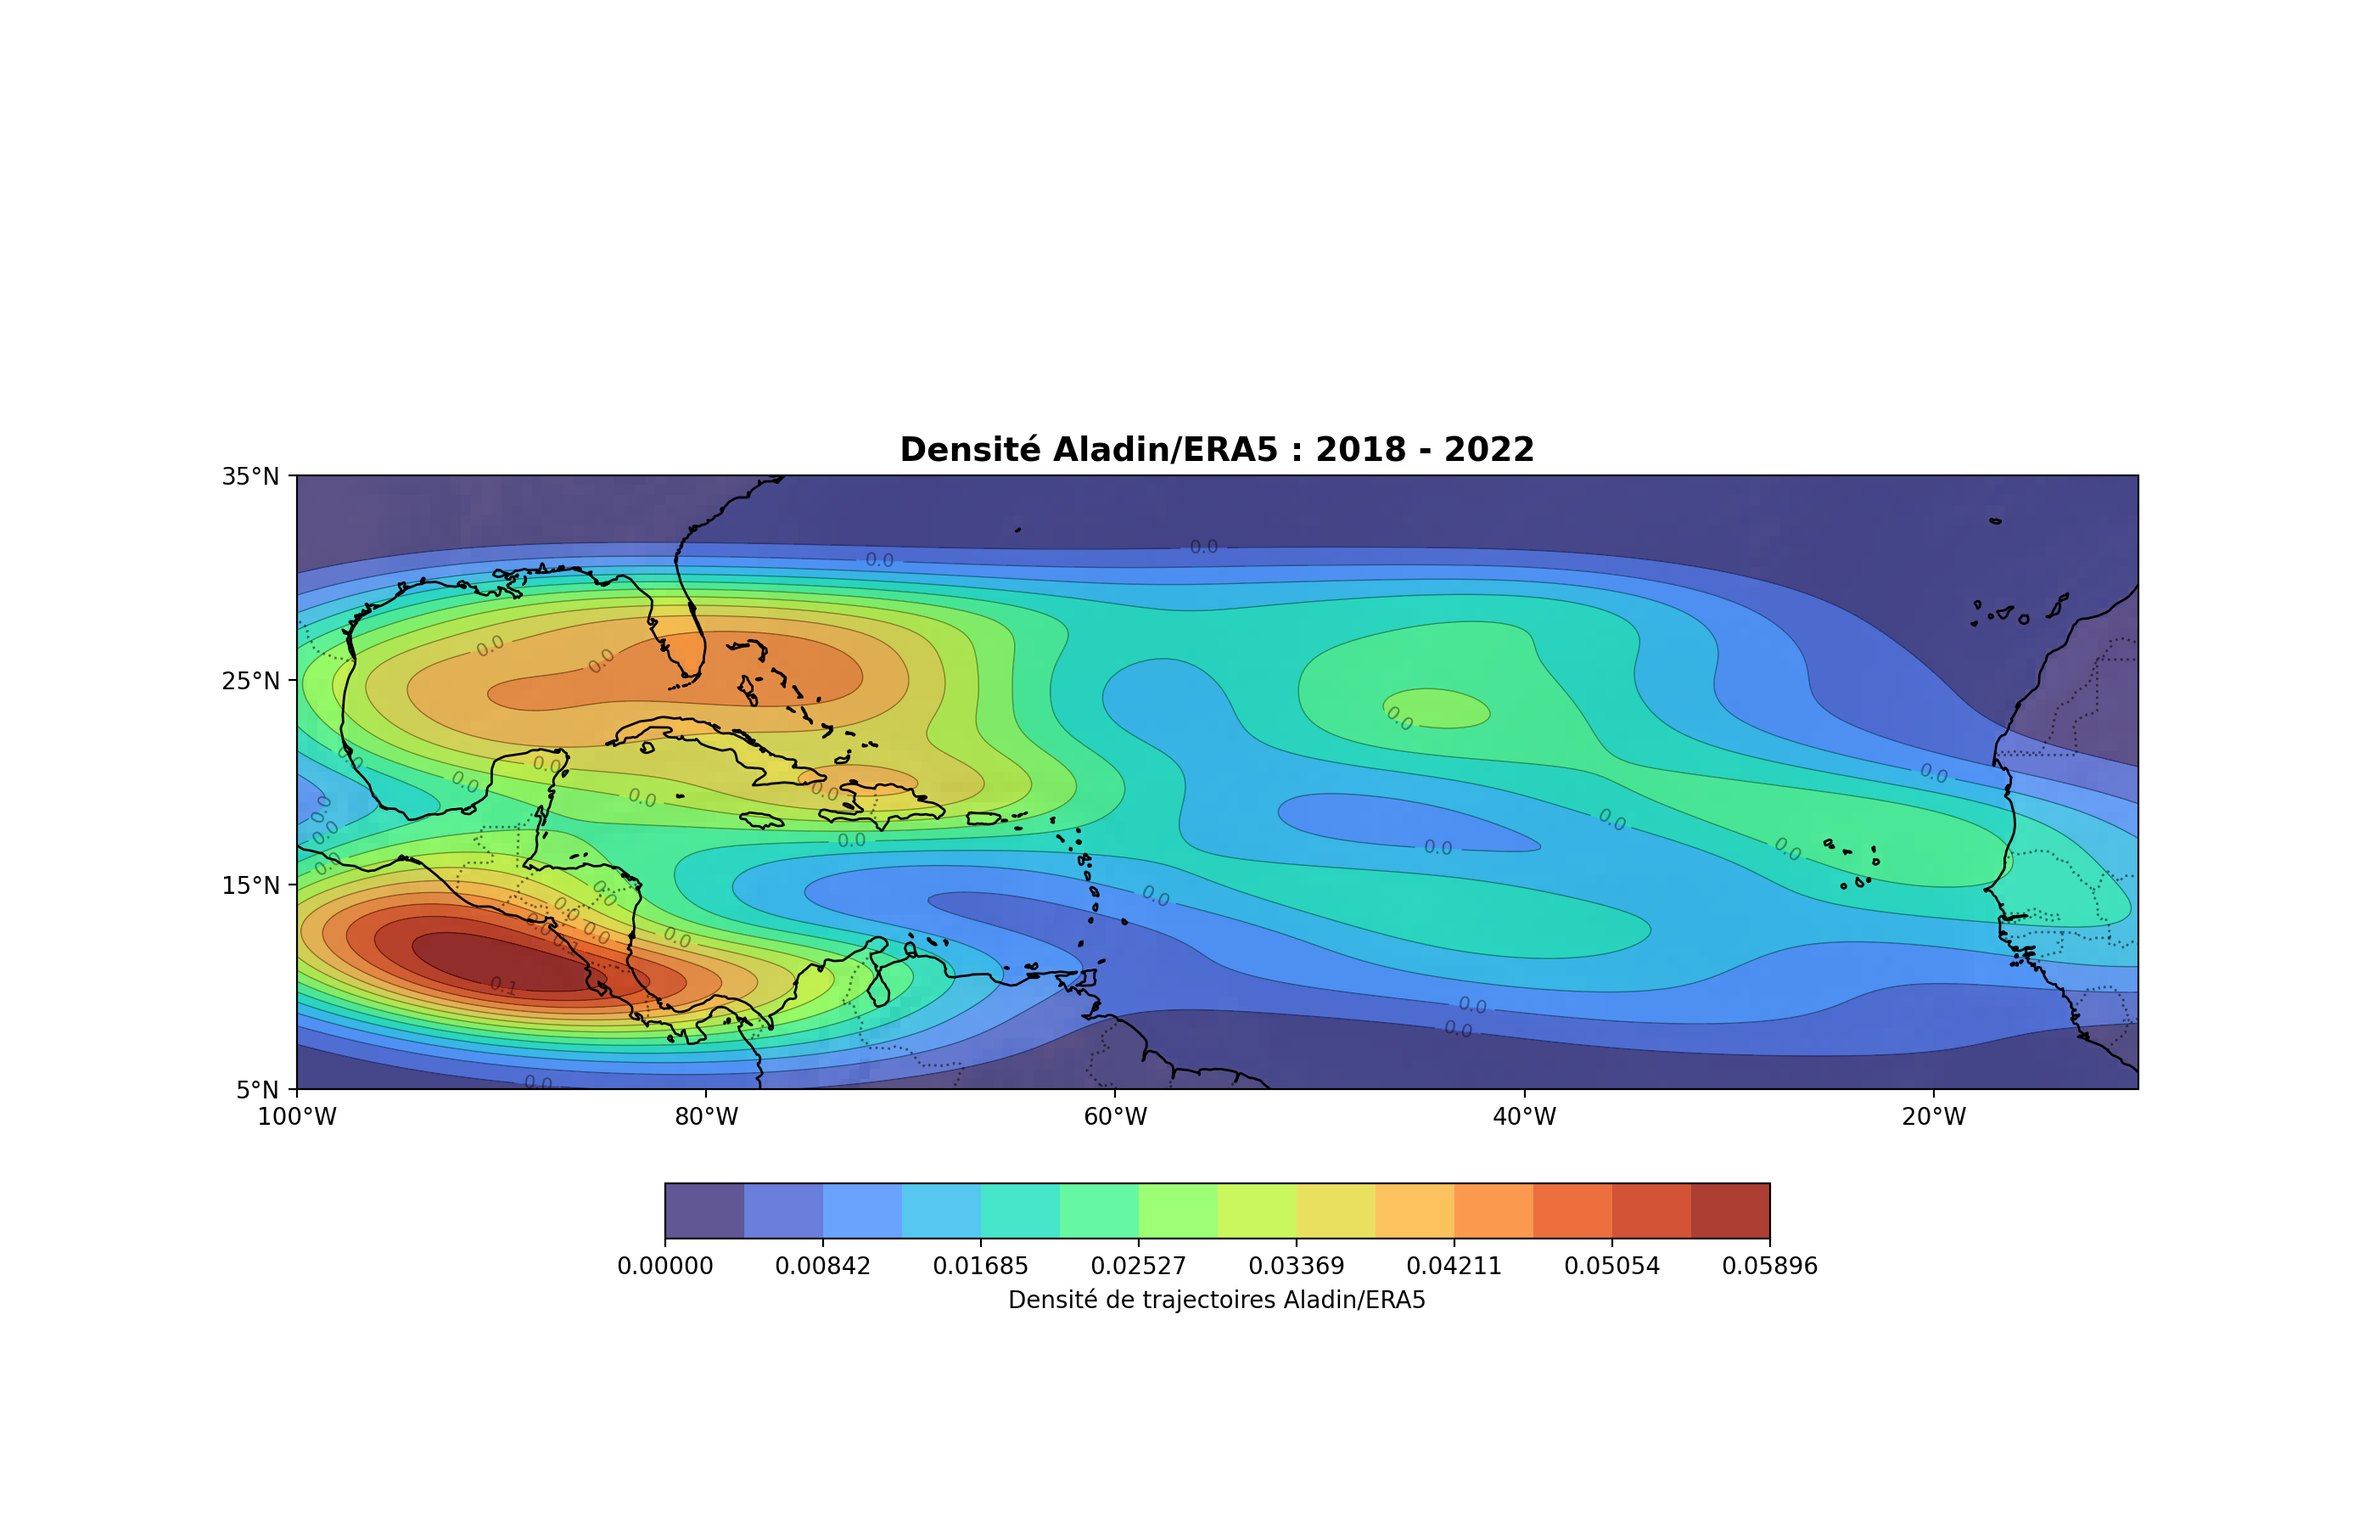
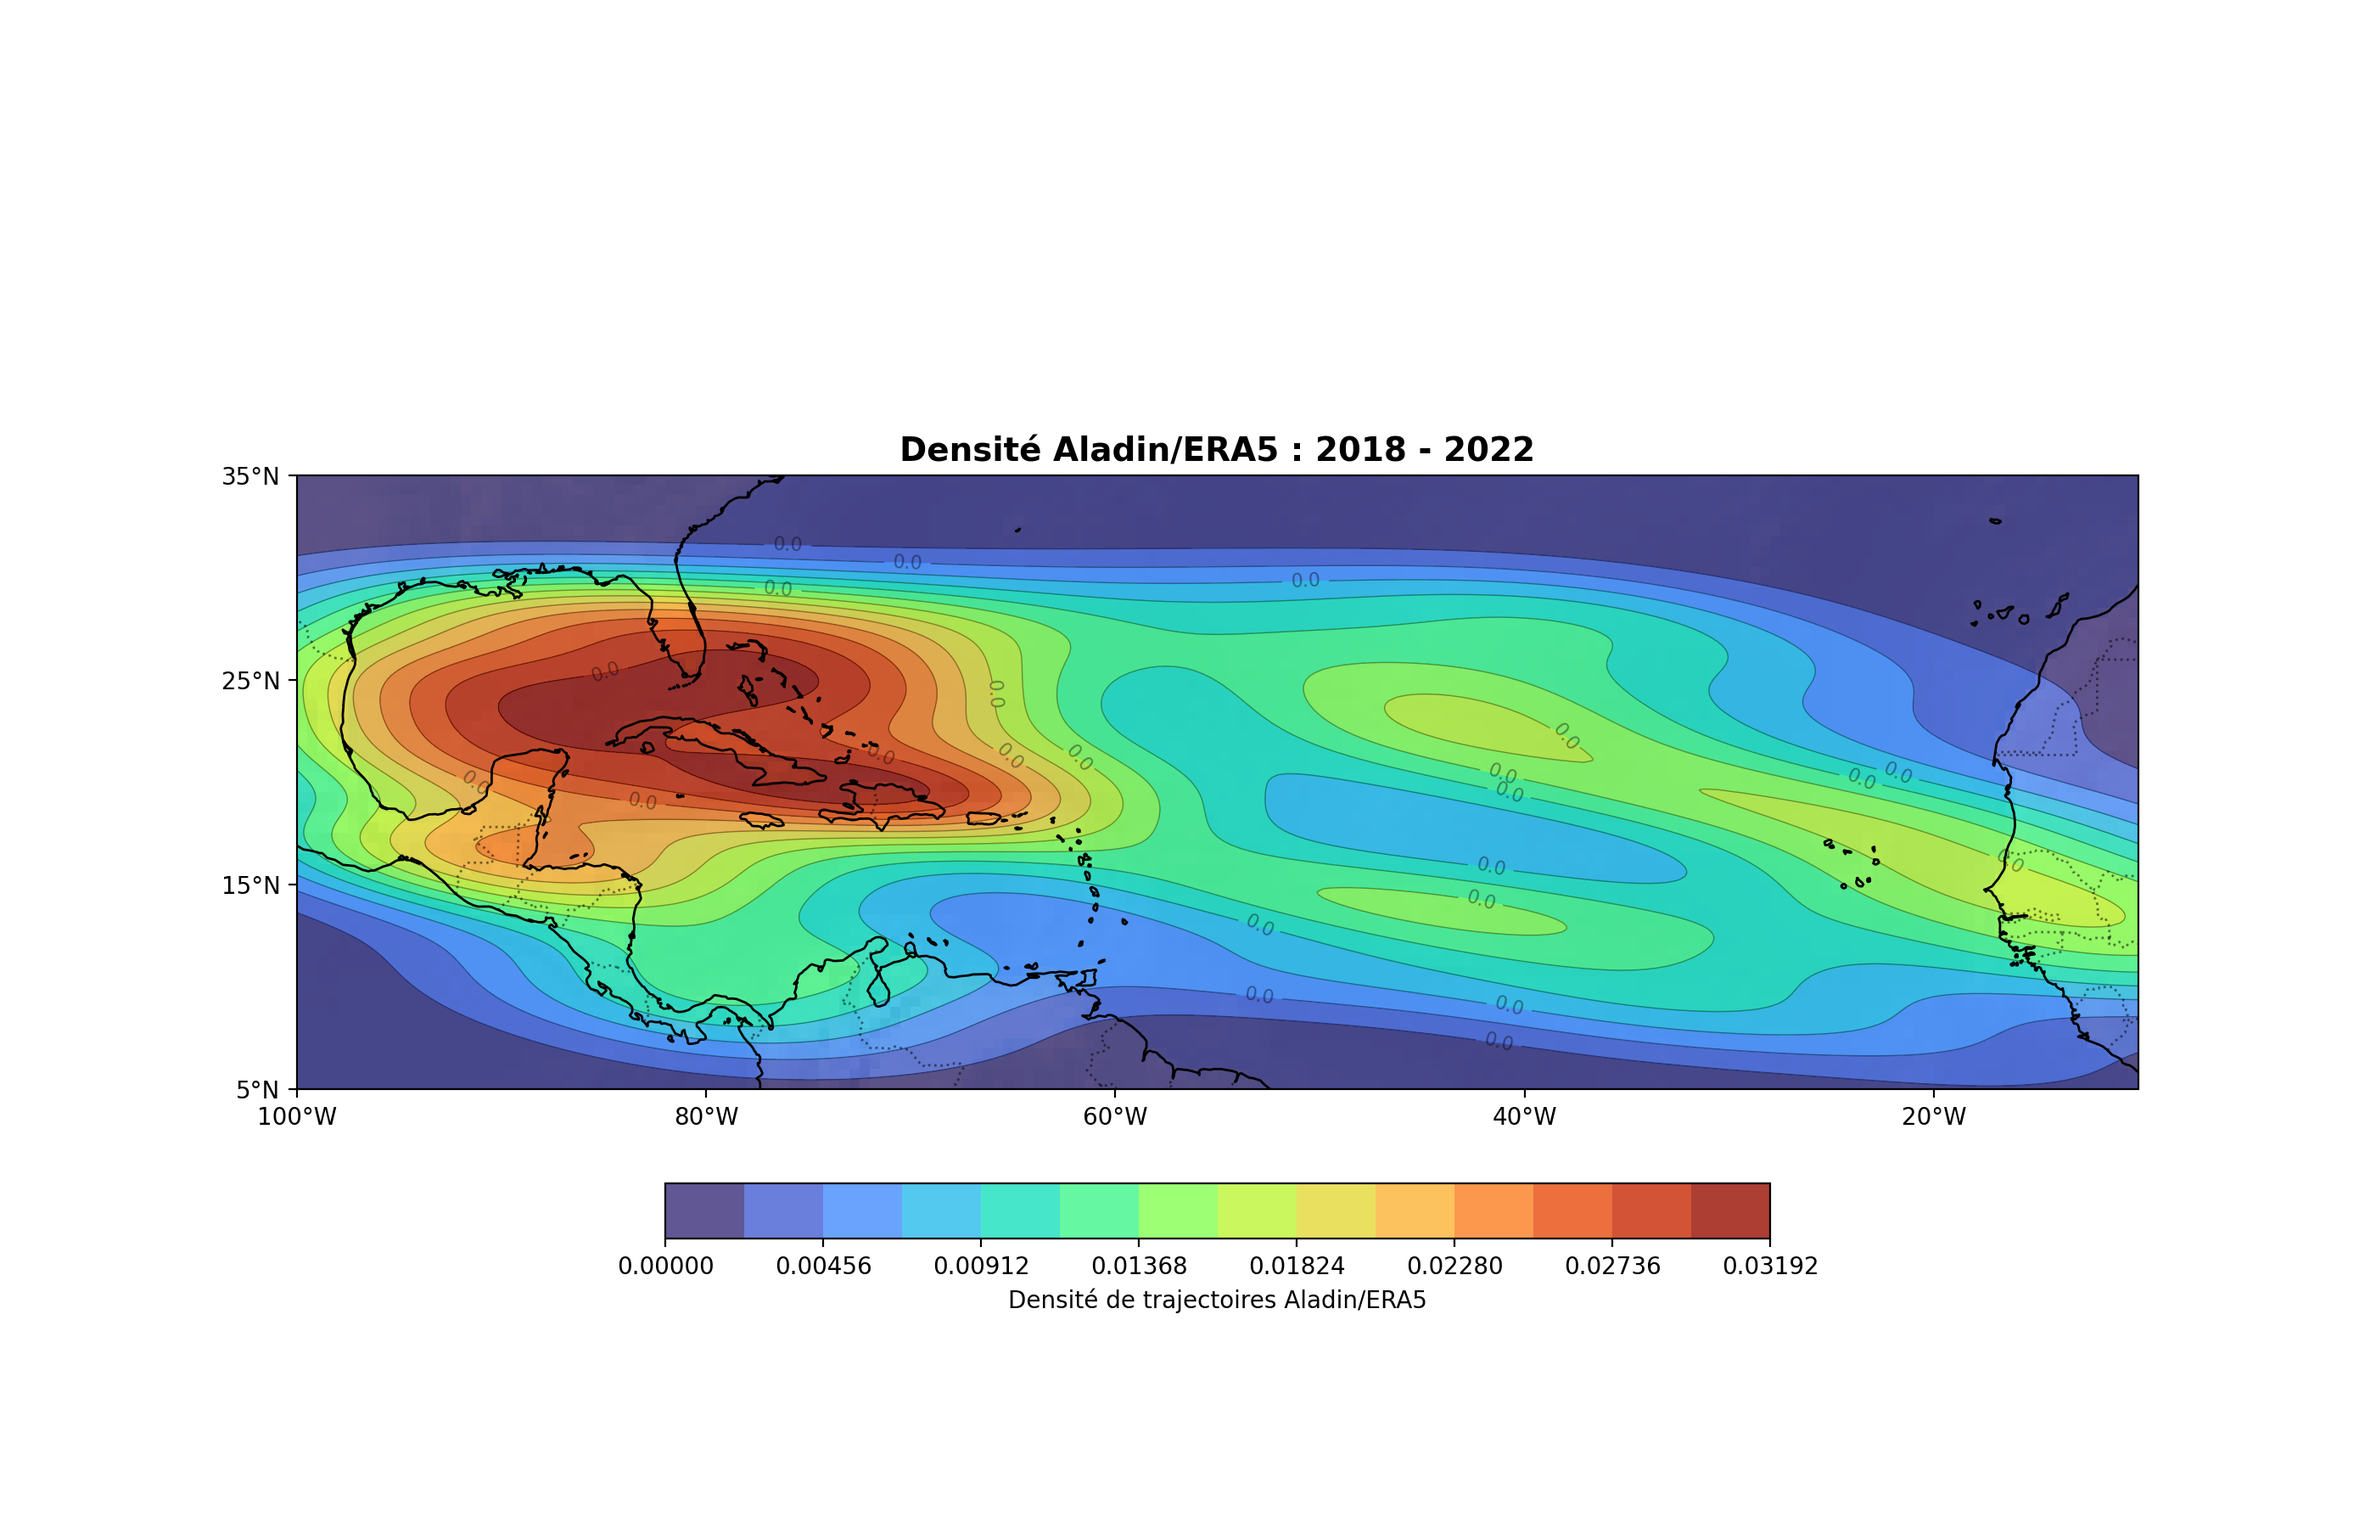
oui stats

diff --git a/stats/fonc.py b/stats/fonc.py
@@ -56,17 +56,25 @@ def plot_bar_charts(vmax, pmin, vomax, filename):
     if not vmax: return
     fig, axs = plt.subplots(1, 3, figsize=(15, 5))
     
+    # Premier subplot
     axs[0].hist(vmax, bins=30, color='skyblue', edgecolor='black')
     axs[0].set_title("Distribution Vmax")
-    
+    axs[0].set_xlim(0, 100)
+    #axs[0].set_ylim(0, 1800)
+
+    # Deuxième subplot
     axs[1].hist(pmin, bins=30, color='salmon', edgecolor='black')
     axs[1].set_title("Distribution Pmin")
-    
+    axs[1].set_xlim(800, 1020)
+    #axs[1].set_ylim(0, 2600)
+
+    # Troisième subplot
     axs[2].hist(vomax, bins=30, color='lightgreen', edgecolor='black')
     axs[2].set_title("Distribution Vomax")
-    
+    axs[2].set_xlim(0, 500)
+    #axs[2].set_ylim(0, 2600)
+
     plt.tight_layout()
-    plt.title(f"Distributions des Variables pour data {filename}")
     plt.show()
 
 def plot_relation(x, y, label_x, label_y, filename):
@@ -81,13 +89,15 @@ def plot_relation(x, y, label_x, label_y, filename):
     a, b = calculate_regression(x, y)
     if a is not None:
         # Création de la ligne de régression
-        x_reg = [min(x), max(x)]
+        x_reg = [min(x), max(x)+20]
         y_reg = [a * xi + b for xi in x_reg]
         plt.plot(x_reg, y_reg, color='red', linewidth=2, label=f"Régression: y={a:.2f}x+{b:.2f}")
     
     plt.xlabel(label_x)
     plt.ylabel(label_y)
     plt.title(f"Relation {label_x} vs {label_y} pour data {filename}")
+    plt.xlim(880, 1030)
+    plt.ylim(0, 100)
     plt.legend()
     plt.grid(True, linestyle='--', alpha=0.6)
     plt.show()

diff --git a/densite/plot_density.py b/densite/plot_density.py
@@ -8,10 +8,16 @@ import sys
 from func import fichier_source, indice_global_cyclogenese, get_density
 
 
-filename = fichier_source(sys.argv)
 
-yearmin = int(sys.argv[2]) if len(sys.argv) > 2 else 1962
-yearmax = int(sys.argv[3]) if len(sys.argv) > 3 else 1963 
+file = 'aladin'
+
+filename = fichier_source(sys.argv if len(sys.argv)>0 else None, file)
+
+print(filename)
+
+
+yearmin = int(sys.argv[2]) if len(sys.argv) > 2 else 1960
+yearmax = int(sys.argv[3]) if len(sys.argv) > 3 else 2024
 
 
 lonmin, lonmax, latmin, latmax = -105, 5, 5, 35

diff --git a/densite/func.py b/densite/func.py
@@ -6,14 +6,14 @@ import sys
 
 
 # fichier source
-def fichier_source(argv, default='aladin'):
+def fichier_source(argv, file):
     if len(argv) > 1 and argv[1] == 'ibtracs':
         return 'ibtracs_transformed_1960_2024.csv'
     elif len(argv) > 1 and argv[1] == 'aladin':
         return 'ALADIN_rel10_1960_2024.csv'
-    elif default == 'aladin':
+    elif file == 'aladin' :
         return 'ALADIN_rel10_1960_2024.csv'
-    else:
+    elif file == 'ibtracs' :
         return 'ibtracs_transformed_1960_2024.csv'
 
 

diff --git a/densite/track_density_aladin.py b/densite/track_density_aladin.py
@@ -13,7 +13,7 @@ from cartopy.mpl.ticker import LongitudeFormatter, LatitudeFormatter
 year_min = int(sys.argv[1]) if len(sys.argv) > 1 else 2018
 year_max = int(sys.argv[2]) if len(sys.argv) > 2 else 2022
 
-dir_path = '/home/florent/Documents/CNRM/git/etude_dust_cyclones/ALADIN_rel10_1960_2024.csv' # Dossier contenant les fichiers .csv
+dir_path = 'trac_3/' # Dossier contenant les fichiers .csv
 output_dir = 'images'
 if not os.path.exists(output_dir):
     os.makedirs(output_dir)
